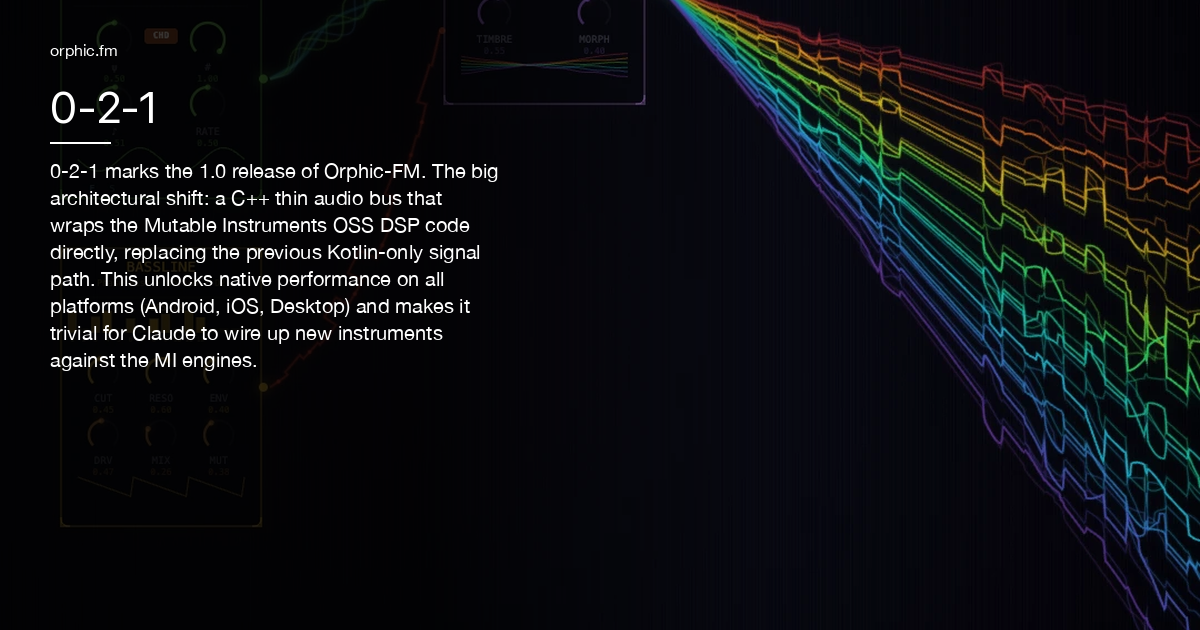
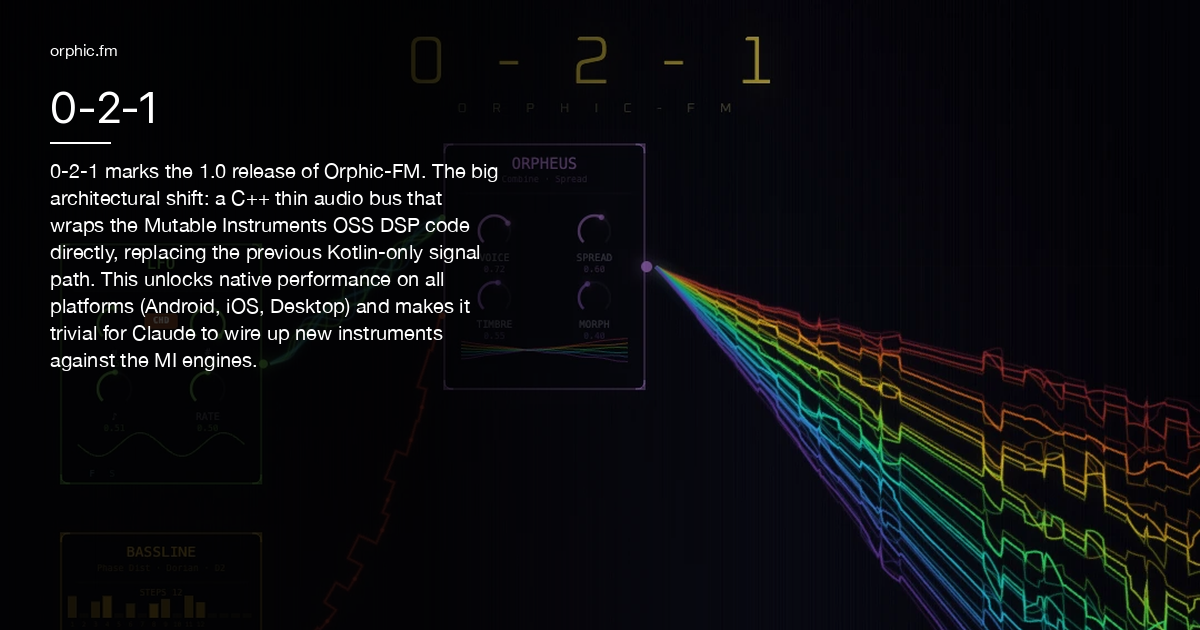
Add `og_crop_gravity` support to OG image generator, update dev log description, and regenerate 0-2-1 OG image

diff --git a/_tools/generate-og-images.py b/_tools/generate-og-images.py
@@ -74,8 +74,11 @@ def parse_frontmatter(filepath):
     return fm
 
 
-def load_poster(poster_path):
-    """Load and crop poster to 1200x630 landscape with darkening."""
+def load_poster(poster_path, crop_gravity="center"):
+    """Load and crop poster to 1200x630 landscape.
+
+    crop_gravity controls vertical anchor: "top", "center", or "bottom".
+    """
     img = Image.open(poster_path).convert("RGBA")
 
     # Scale to fill 1200x630
@@ -84,9 +87,18 @@ def load_poster(poster_path):
     new_h = int(img.height * scale)
     img = img.resize((new_w, new_h), Image.LANCZOS)
 
-    # Center crop
-    left = (new_w - OG_WIDTH) // 2
-    top = (new_h - OG_HEIGHT) // 2
+    # Right-anchored horizontal crop (text panel covers the left)
+    left = new_w - OG_WIDTH
+
+    # Vertical crop based on gravity
+    v_excess = new_h - OG_HEIGHT
+    if crop_gravity == "top":
+        top = 0
+    elif crop_gravity == "bottom":
+        top = v_excess
+    else:
+        top = v_excess // 2
+
     img = img.crop((left, top, left + OG_WIDTH, top + OG_HEIGHT))
 
     return img
@@ -158,10 +170,10 @@ def wrap_text_ellipsis(draw, text, font, max_width, max_lines):
     return lines
 
 
-def generate_og_image(poster_path, title, description, output_path, subtitle=None):
+def generate_og_image(poster_path, title, description, output_path, subtitle=None, crop_gravity="center"):
     """Generate a single OG image with text on the left, art on the right."""
     # Load and prepare poster
-    poster = load_poster(poster_path)
+    poster = load_poster(poster_path, crop_gravity)
     img = darken_image(poster)
 
     draw = ImageDraw.Draw(img)
@@ -238,12 +250,14 @@ def process_albums():
             continue
 
         description = fm["tech_description"]
+        crop_gravity = fm.get("og_crop_gravity", "center")
         slug = album_name.lower().replace(" ", "-")
         output_dir = poster_path.parent
         output_path = output_dir / "og-landscape.png"
 
         print(f"Album: {album_name}")
-        generate_og_image(poster_path, album_name, description, output_path)
+        generate_og_image(poster_path, album_name, description, output_path,
+                         crop_gravity=crop_gravity)
 
         # Update frontmatter to point to new OG image
         og_rel = "/" + str(output_path.relative_to(ROOT))
@@ -273,9 +287,11 @@ def process_songs():
         output_dir = poster_path.parent
         output_path = output_dir / f"og-{slug}.png"
 
+        crop_gravity = fm.get("og_crop_gravity", "center")
         print(f"Song: {title} ({album})")
         generate_og_image(poster_path, title, description, output_path,
-                         subtitle=f"Orphic FM — {album}")
+                         subtitle=f"Orphic FM — {album}",
+                         crop_gravity=crop_gravity)
 
         # Update frontmatter
         og_rel = "/" + str(output_path.relative_to(ROOT))

diff --git a/albums/0-2-1.md b/albums/0-2-1.md
@@ -4,6 +4,7 @@ title: "0-2-1"
 album: "0-2-1"
 permalink: /albums/0-2-1/
 poster_url: "/assets/albums/2026-03-20-0-2-1/poster.webp"
+og_crop_gravity: top
 og_image: "/assets/albums/2026-03-20-0-2-1/og-landscape.png"
 description: "**Orpheus** hits 1.0. The synth now runs on every platform, powered by a new C++ thin audio bus that integrates directly with the Mutable Instruments open-source engines. Claude can now wire up new instruments with ease."
 tech_description: |

diff --git a/devlog.md b/devlog.md
@@ -2,5 +2,5 @@
 layout: devlog
 title: "Dev Log"
 permalink: /devlog/
-description: "Behind-the-scenes build log for Orphic FM — a modular synth powered by Mutable Instruments DSP and guided by Claude."
+description: "Build log for Orphic FM — a semi-modular synth powered by Mutable Instruments DSPs built in Kotlin and Compose. ."
 ---
